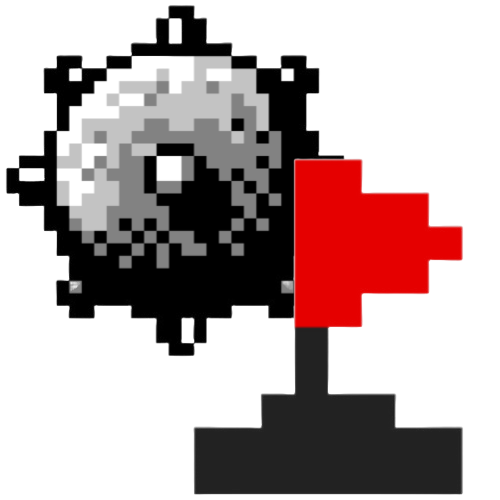
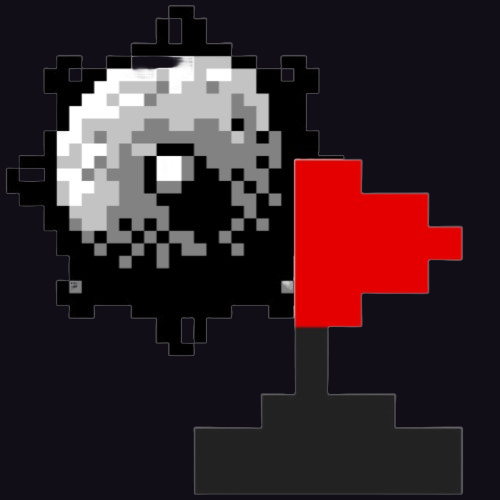
aggiunto i bottoni pixel, su asset,generic e nel menu e settings, modificato il titolo e l'immagine

diff --git a/UI/Menu.py b/UI/Menu.py
@@ -18,22 +18,27 @@ class Menu(CustomFrame):
 
     def initializeMenu(self):
         CustomFrame.initializeMenu(self)
-        self.__buttonSettings = lib.createButton(generic.frameGlobal, "Settings", self.__openSettings)
-        self.__buttonStart = lib.createButton(generic.frameGlobal, "Start", self.__openGame)
-        self.__buttonSettings.place(relx=0.5, rely=0.7, anchor='center')
-        self.__buttonStart.place(relx=0.5, rely=0.6, anchor='center')
-        self.__buttonQuit = lib.createButton(generic.frameGlobal, "Quit", generic.gameController.quitGame)
-        self.__buttonQuit.place(relx=0.5, rely=0.8, anchor='center')
+        self.__buttonStart=lib.pixelButton(generic.frameGlobal,generic.pixelStart,self.__openGame,0.58)
+        self.__buttonSettings = lib.pixelButton(generic.frameGlobal,generic.pixelSettings, self.__openSettings,0.70)
+        self.__buttonQuit = lib.pixelButton(generic.frameGlobal,generic.pixelQuit, self.__quit,0.81)
+   
 
     def __openSettings(self):
-        self.__buttonSettings.config(bg="white", fg="gray")
         generic.frameGlobal.destroy()
-        generic.gameController.createMenuSettings()
+        generic.gameController.createMenuSettings()      
+        self.__buttonSettings=lib.changeImage(generic.clickSetting,self.__buttonSettings)
+   
 
     def __openGame(self):
-        self.__buttonStart.config(bg="white", fg="gray")
         generic.frameGlobal.destroy()
-        generic.gameController.createGame()
+        generic.gameController.createGame()      
+        self.__buttonStart=lib.changeImage(generic.clickStart,self.__buttonStart)
+        
+    def __quit(self):
+        generic.rootGlobal.destroy()
+        self.__buttonQuit=lib.changeImage(generic.clickQuit,self.__buttonQuit)
+
+          
 
     # MOSECA
     def __startMusic(self):

diff --git a/Utils/lib.py b/Utils/lib.py
@@ -2,7 +2,7 @@ import math
 import tkinter as tk
 import math
 import Utils.generic as g
-
+from PIL import Image, ImageTk
 
 def setWinCondition():
     g.winCondition = math.ceil(g.boardSizeGlobal ** 2 * (100 - g.bombsPercentageGlobal) / 100)
@@ -22,7 +22,34 @@ def createButton(frame, text, command, fg="white", bg="grey"):
                      bg=bg, fg=fg,
                      command=command)
 
-
+def pixelButton(frame,image,command,rely):
+    # Caricamento dell'immagine pixelata
+    pixel_image = Image.open(image)
+    pixel_image = pixel_image.resize((130, 60), Image.LANCZOS) 
+    photo = ImageTk.PhotoImage(pixel_image)
+    
+    # Creazione del bottone con immagine pixelata
+    button = tk.Button(
+        frame,
+        image=photo,
+        command=command,
+        borderwidth=0,
+        highlightthickness=0,
+        relief=tk.FLAT,        
+        activebackground="#000000",  
+        activeforeground="#000000"
+    )
+    button.image = photo 
+   
+    button.place(relx=0.5, rely=rely, anchor='center')  
+    
+def changeImage(image,button):
+    new_image = Image.open(image)
+    new_image = new_image.resize((100, 60), Image.LANCZOS)  # Ridimensiona l'immagine
+    new_photo = ImageTk.PhotoImage(new_image)
+    button.config(image=new_photo)
+    button.image = new_photo  # Mantieni il riferimento all'immagine  
+    
 def setRootPosition(root: tk.Tk, width=1200, height=700):
     screenW = root.winfo_screenwidth()
     screenH = root.winfo_screenheight()

diff --git a/Utils/CustomFrame.py b/Utils/CustomFrame.py
@@ -29,6 +29,7 @@ class CustomFrame:
     def __setFrame(self):
         generic.frameGlobal = tk.Frame(generic.rootGlobal, bg="black", bd=5, relief="groove")
         generic.frameGlobal.pack(fill="both", expand=True, padx=10, pady=10) 
+       
         
         sfondo_path = generic.imageMenuB  
         sfondo_image = Image.open(sfondo_path)
@@ -41,15 +42,15 @@ class CustomFrame:
 
     def __setTitle(self):
         customFont = tkFont.Font(family="Terminal", size=self.__sizeTitle)
-        label = tk.Label(generic.frameGlobal, text=self.__textTitle, font=customFont, fg="white", bg="#191970", width=50)
-        label.place(relx=0.52, rely=0.35, anchor='center')
-        
+        label = tk.Label(generic.frameGlobal, text=self.__textTitle, font=customFont,fg="white", bg="#120E18", width=30)
+        label.place(relx=0.5, rely=0.23, anchor='center')
+       
 
 
     def __setImage(self):
         image = cv2.imread(self.__image)
-        image = cv2.resize(image, (150, 150))
+        image = cv2.resize(image, (130, 130))
         image = cv2.cvtColor(image, cv2.COLOR_BGR2RGB)
         self.__image = ImageTk.PhotoImage(image=Image.fromarray(image))
-        imageLabel = tk.Label(generic.frameGlobal, image=self.__image, bg="#191970",width=10000)
-        imageLabel.place(relx=0.5, rely=0.2, anchor='center')
+        imageLabel = tk.Label(generic.frameGlobal, image=self.__image, bg="#120E18",width=1500)
+        imageLabel.place(relx=0.5, rely=0.1, anchor='center')

diff --git a/UI/Settings.py b/UI/Settings.py
@@ -19,12 +19,10 @@ class Settings(CustomFrame):
 
     def initializeMenu(self):
         CustomFrame.initializeMenu(self)
-        self.__buttonEasy = lib.createButton(generic.frameGlobal, "Easy", self.__setEasyLevel, bg="green")
-        self.__buttonMedium = lib.createButton(generic.frameGlobal, "Medium", self.__setMediumLevel, bg="orange")
-        self.__buttonHard = lib.createButton(generic.frameGlobal, "Hard", self.__setHardLevel, bg="red")
-        self.__buttonEasy.place(relx=0.5, rely=0.6, anchor='center')
-        self.__buttonMedium.place(relx=0.5, rely=0.7, anchor='center')
-        self.__buttonHard.place(relx=0.5, rely=0.8, anchor='center')
+        self.__buttonEasy = lib.pixelButton(generic.frameGlobal,generic.pixelEasy,self.__setEasyLevel,0.58)
+        self.__buttonMedium = lib.pixelButton(generic.frameGlobal,generic.pixelMedium,self.__setMediumLevel,0.70)
+        self.__buttonHard = lib.pixelButton(generic.frameGlobal,generic.pixelHard,self.__setHardLevel,0.81)
+        
 
     def __setHardLevel(self):
         generic.boardSizeGlobal = 15

diff --git a/Utils/generic.py b/Utils/generic.py
@@ -14,6 +14,21 @@ buttonHeight = 2
 imagePath = "Assets/icona.png"
 imageMenuB="Assets/sfondoMenu.png"
 imageSettings = "Assets/settingsImage.png"
+
+pixelStart= "Assets/StartButton.png"
+pixelSettings= "Assets/ButtonSettings.png"
+pixelQuit="Assets/ButtonQuit.png"
+pixelEasy="Assets/ButtonEasy.png"
+pixelMedium="Assets/ButtonMedium.png"
+pixelHard="Assets/ButtonHard.png"
+
+clickStart="Assets/StartButtonG.png"
+clickSetting="Assets/ButtonSettingG.png"
+clickQuit="Assets/ButtonQuitG.png"
+clickEasy="Assets/ButtonEasyG.png"
+clickMedium="Assets/ButtonMediumG.png"
+clickHard="Assets/ButtonHardG.png"
+
 gifBomba = "gifb.gif"
 gifBandiera = "giff.gif"
 music = "Assets/retrovideogame.mp3"
